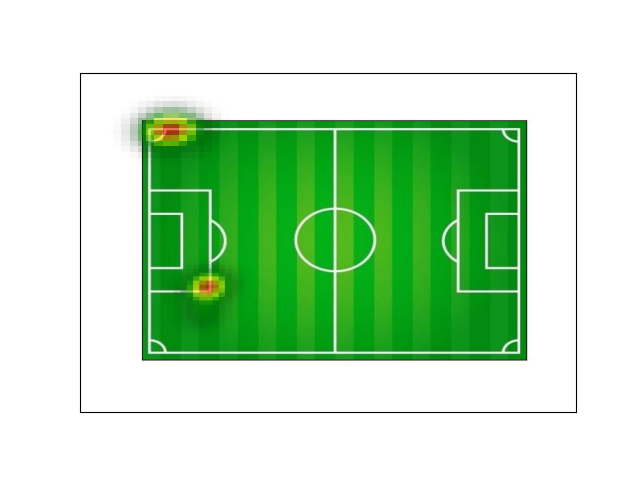
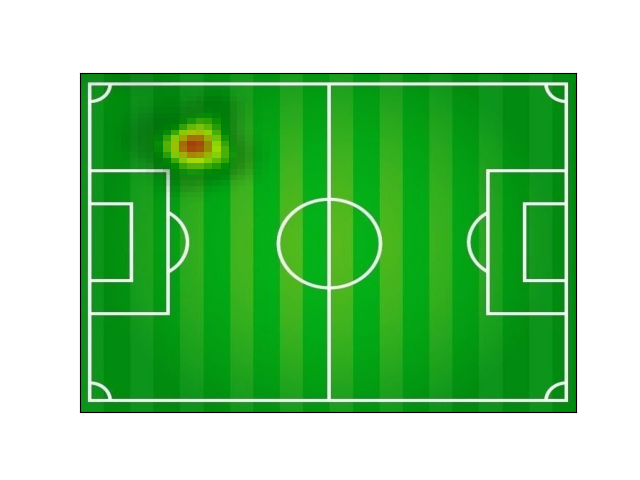
Ajuste do tamanho do mapa de calor. Mapa de calor funcionando. Criação de partidas funcionando.

diff --git a/lib/widgets/side_menu_widget.dart b/lib/widgets/side_menu_widget.dart
@@ -33,8 +33,8 @@ class _SideMenuWidgetState extends State<SideMenuWidget> {
         )
         :
         Container(
-      height: 47,
-      decoration: const BoxDecoration(
+        height: 47,
+        decoration: const BoxDecoration(
         borderRadius: BorderRadius.all(
           Radius.circular(5.0),
         ),
@@ -43,10 +43,11 @@ class _SideMenuWidgetState extends State<SideMenuWidget> {
       margin: const EdgeInsets.symmetric(vertical: 3),
       child: InkWell(
         borderRadius: const BorderRadius.all(Radius.circular(5.0)),
-        onTap: () => setState(() {
+        onTap: () {
           manager.selectMatch(null);
           manager.updatedIsMatch(false);
-        }),
+        }
+        ,
         child: const Row(
           children: [
             Padding(

diff --git a/lib/widgets/serial_data_plotter.dart b/lib/widgets/serial_data_plotter.dart
@@ -428,7 +428,14 @@ class _SerialDataPlotterState extends State<SerialDataPlotter> {
               : Center(
                   child: imgFile == null
                       ? const Placeholder()
-                      : Image.file(imgFile!, key: ValueKey(imgKey))),
+                      : AspectRatio(
+                          aspectRatio: 2, // Adjust this aspect ratio to match your image's ratio
+                          child: FittedBox(
+                            fit: BoxFit.contain, // You can also use BoxFit.cover, BoxFit.fill, etc.
+                            child: Image.file(imgFile!, key: ValueKey(imgKey)),
+                          ),
+                        ),
+                ),
           Center(
             child: IconButton(
               iconSize: 35,

diff --git a/lib/screens/history_screen.dart b/lib/screens/history_screen.dart
@@ -26,6 +26,7 @@ class HistoryScreen extends StatelessWidget {
               trailing: Text(match.date),
               onTap: () {
                 // Ação ao clicar no card (ex: exibir detalhes da partida)
+                manager.removeMatch(match.id);
               },
             ),
           );

diff --git a/lib/provider/manager.dart b/lib/provider/manager.dart
@@ -28,6 +28,7 @@ class Manager with ChangeNotifier {
   }
 
   Future<void> _init() async {
+    Hive.registerAdapter(MatchAdapter());
     _playerBox = await Hive.openBox<Player>('players');
     _fieldBox = await Hive.openBox<Field>('fields');
     _matchBox = await Hive.openBox<Match>('matches');
